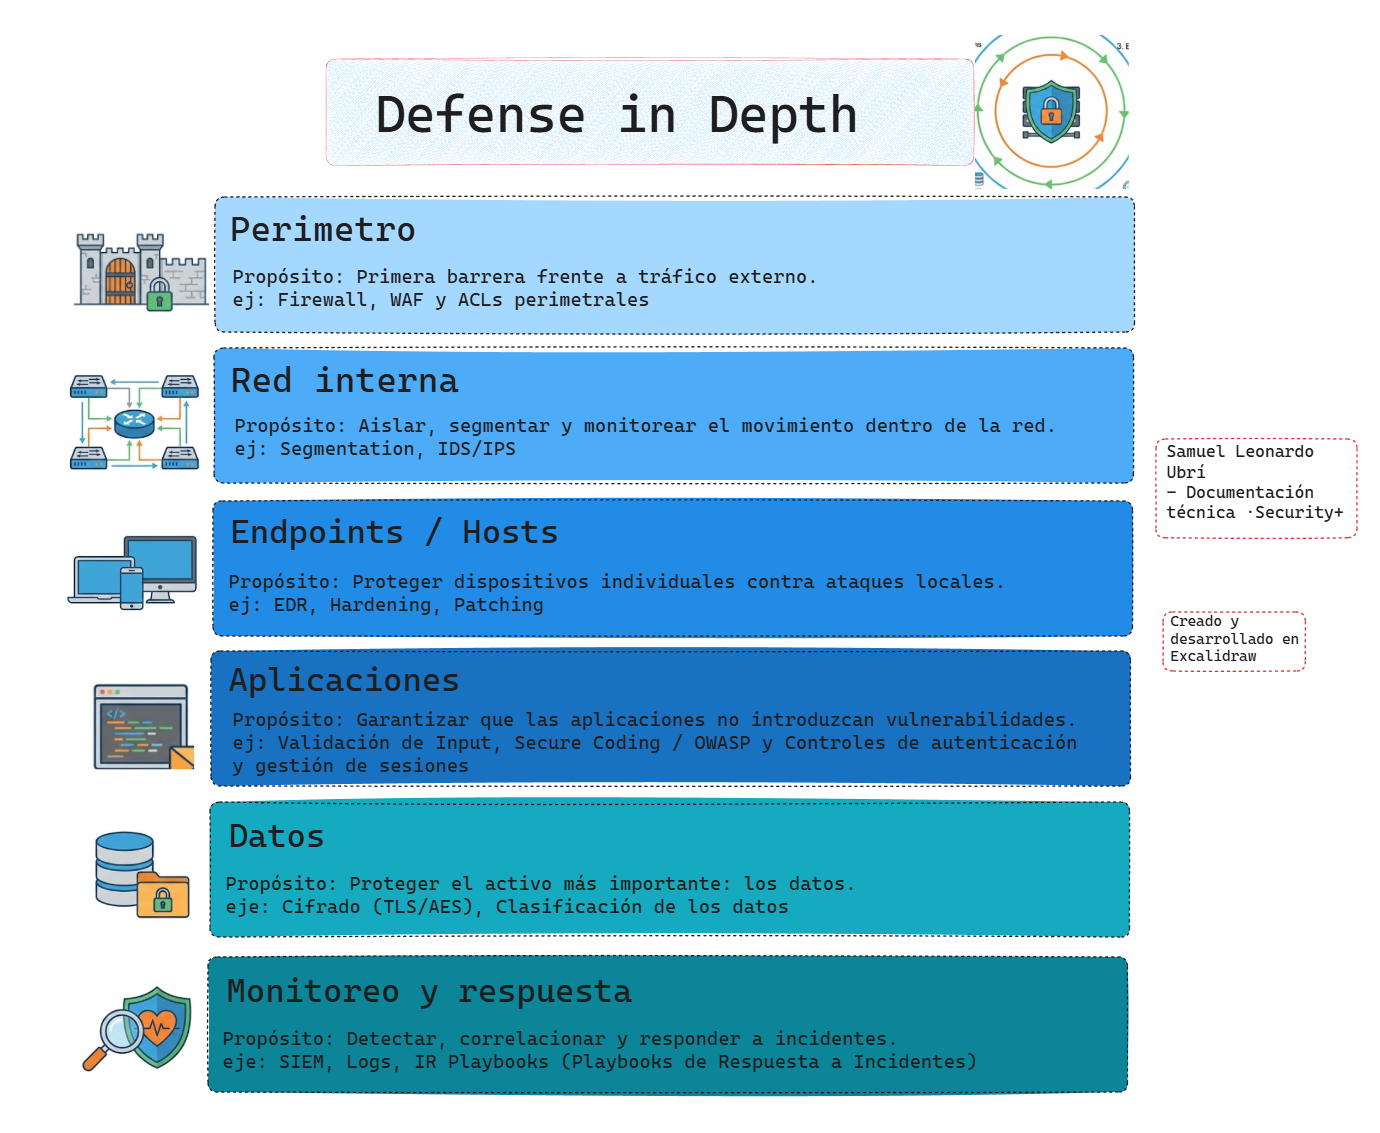
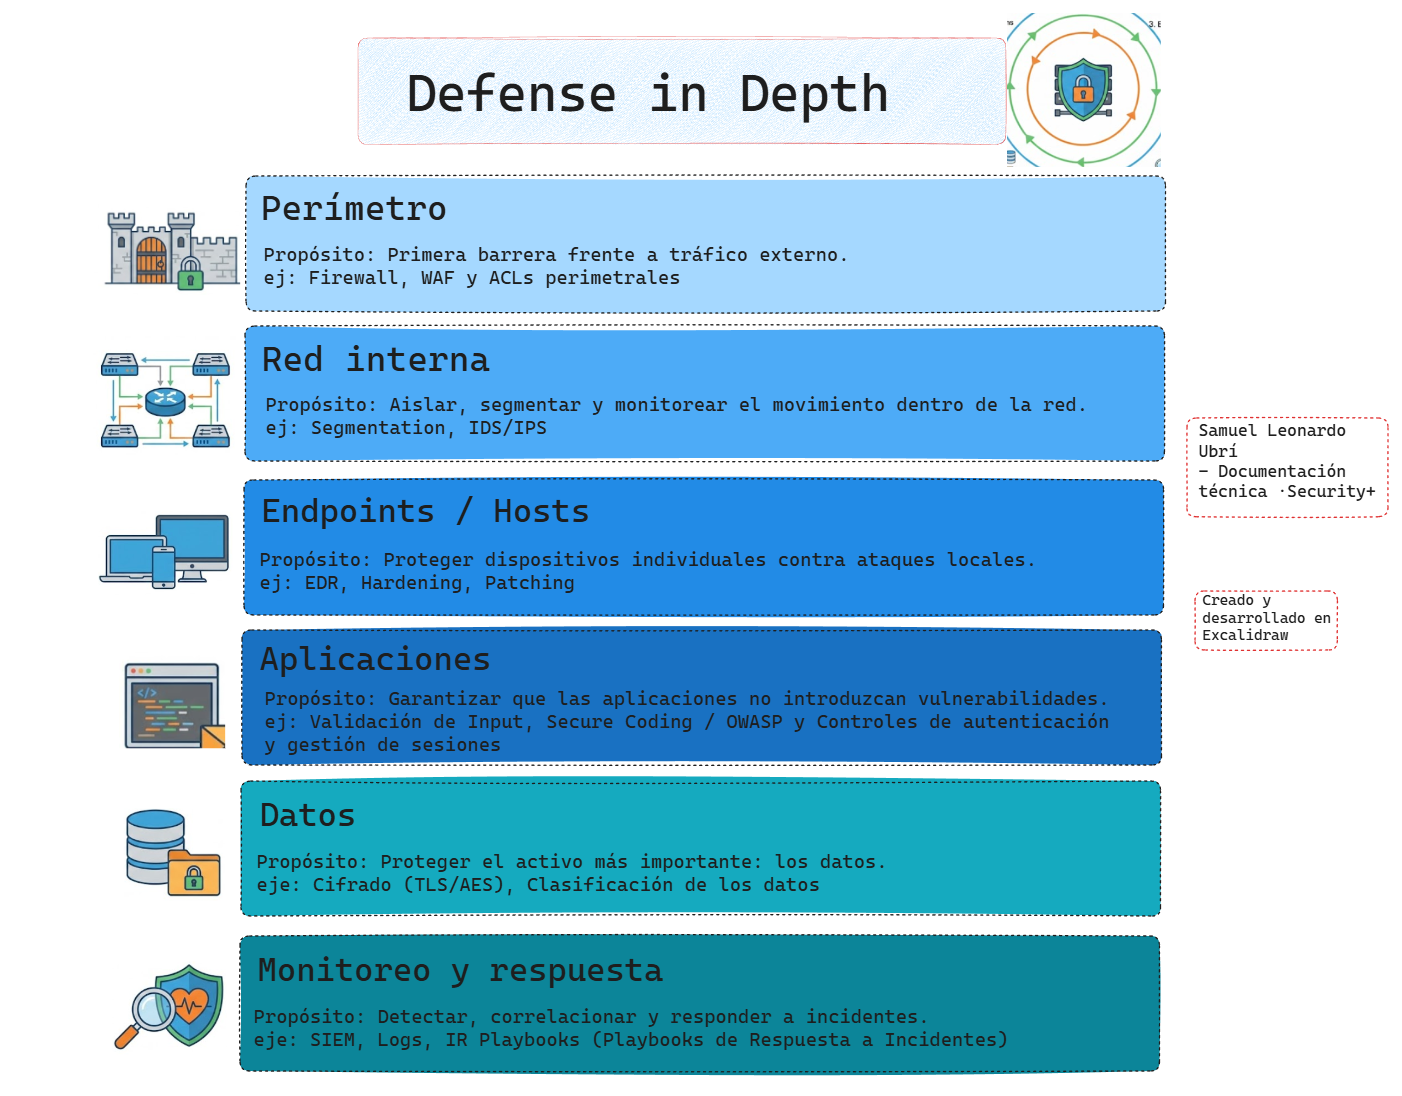
refactor(domain1-2): update defense diagram and standardize lab file structure

Changed region(s): [[0.0312, 0.0, 0.9971, 0.9927]]

diff --git a/Domain2-Threats-Vulnerabilities-Mitigations/05_Labs/lab-3-mitigation-mapping/[3] control-mapping-table.md b/Domain2-Threats-Vulnerabilities-Mitigations/05_Labs/lab-3-mitigation-mapping/[3] control-mapping-table.md
@@ -1,7 +1,7 @@
 
 # Control Mapping Table
 
-Este documento presenta una tabla de mapeo entre amenazas, vulnerabilidades y controles de mitigación, con el objetivo de demostrar cómo los riesgos identificados pueden ser reducidos mediante la aplicación de controles de seguridad específicos. 
+En este espacio mostraré una tabla de mapeo entre amenazas, vulnerabilidades y controles de mitigación, con el objetivo de demostrar cómo los riesgos identificados pueden ser reducidos mediante la aplicación de controles de seguridad específicos. 
 
 
 | Amenaza                | Vulnerabilidad               | Control aplicado        | Técnica de mitigación        |
